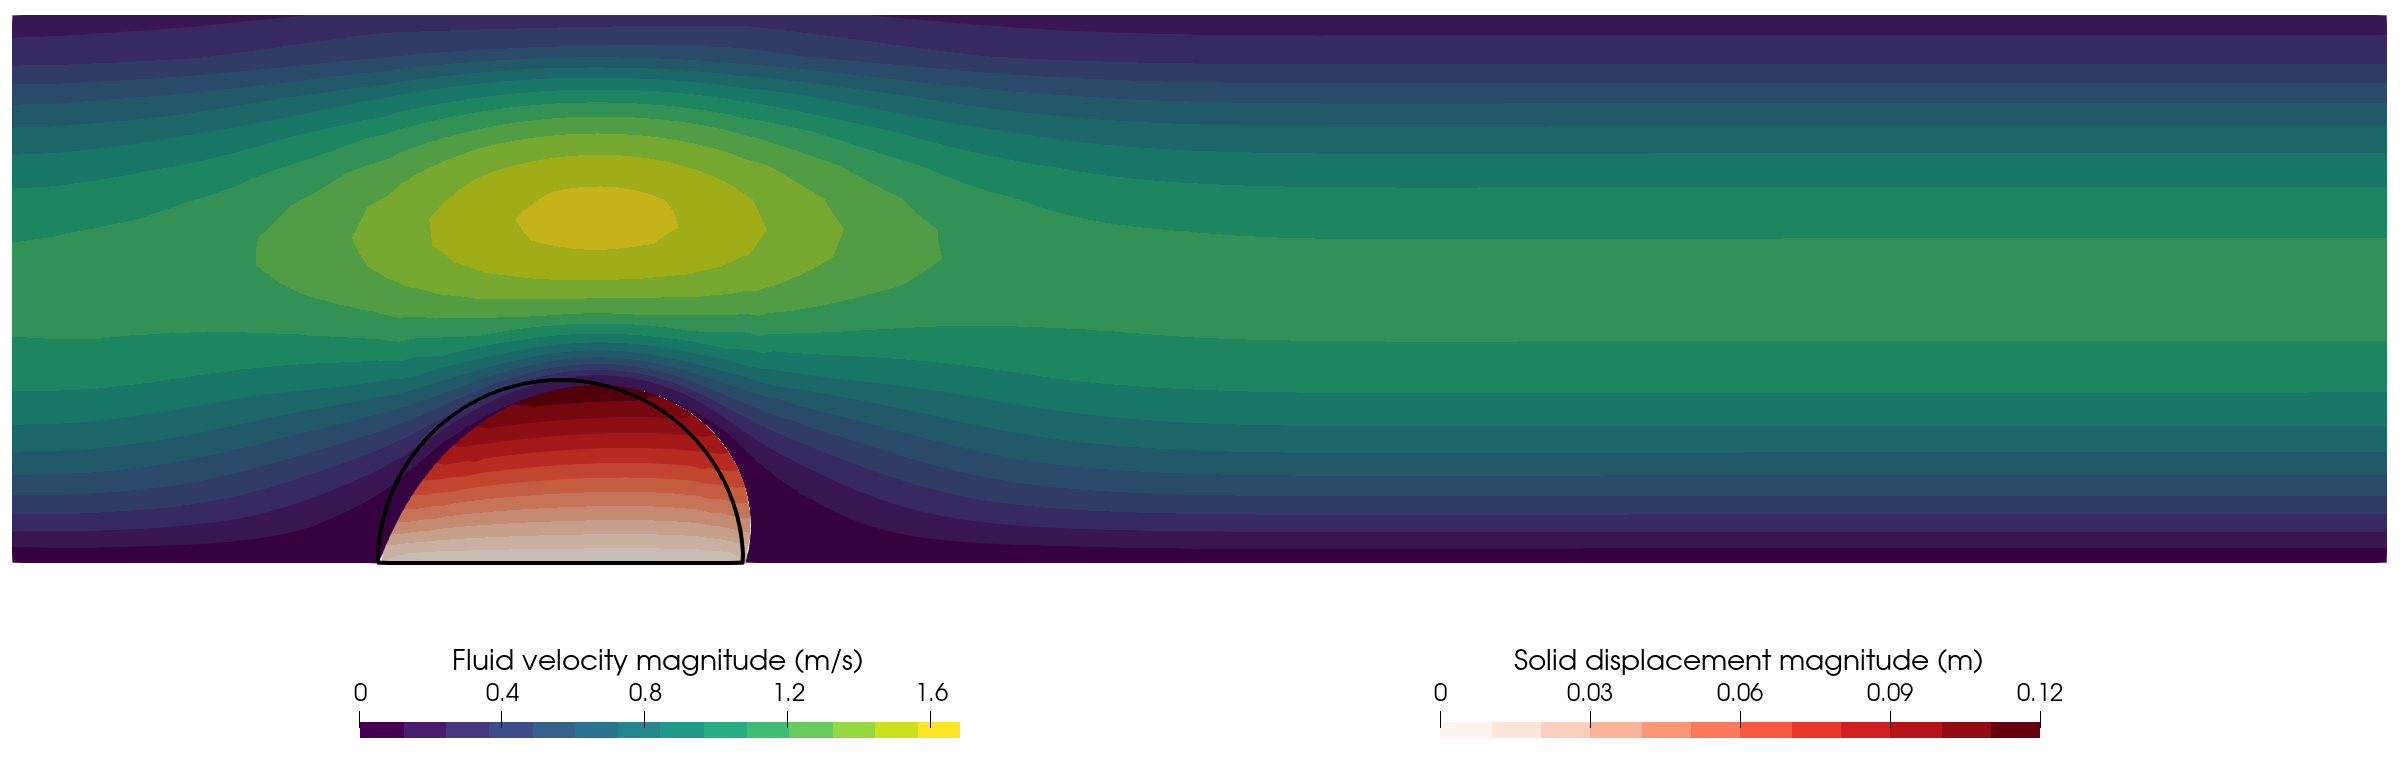
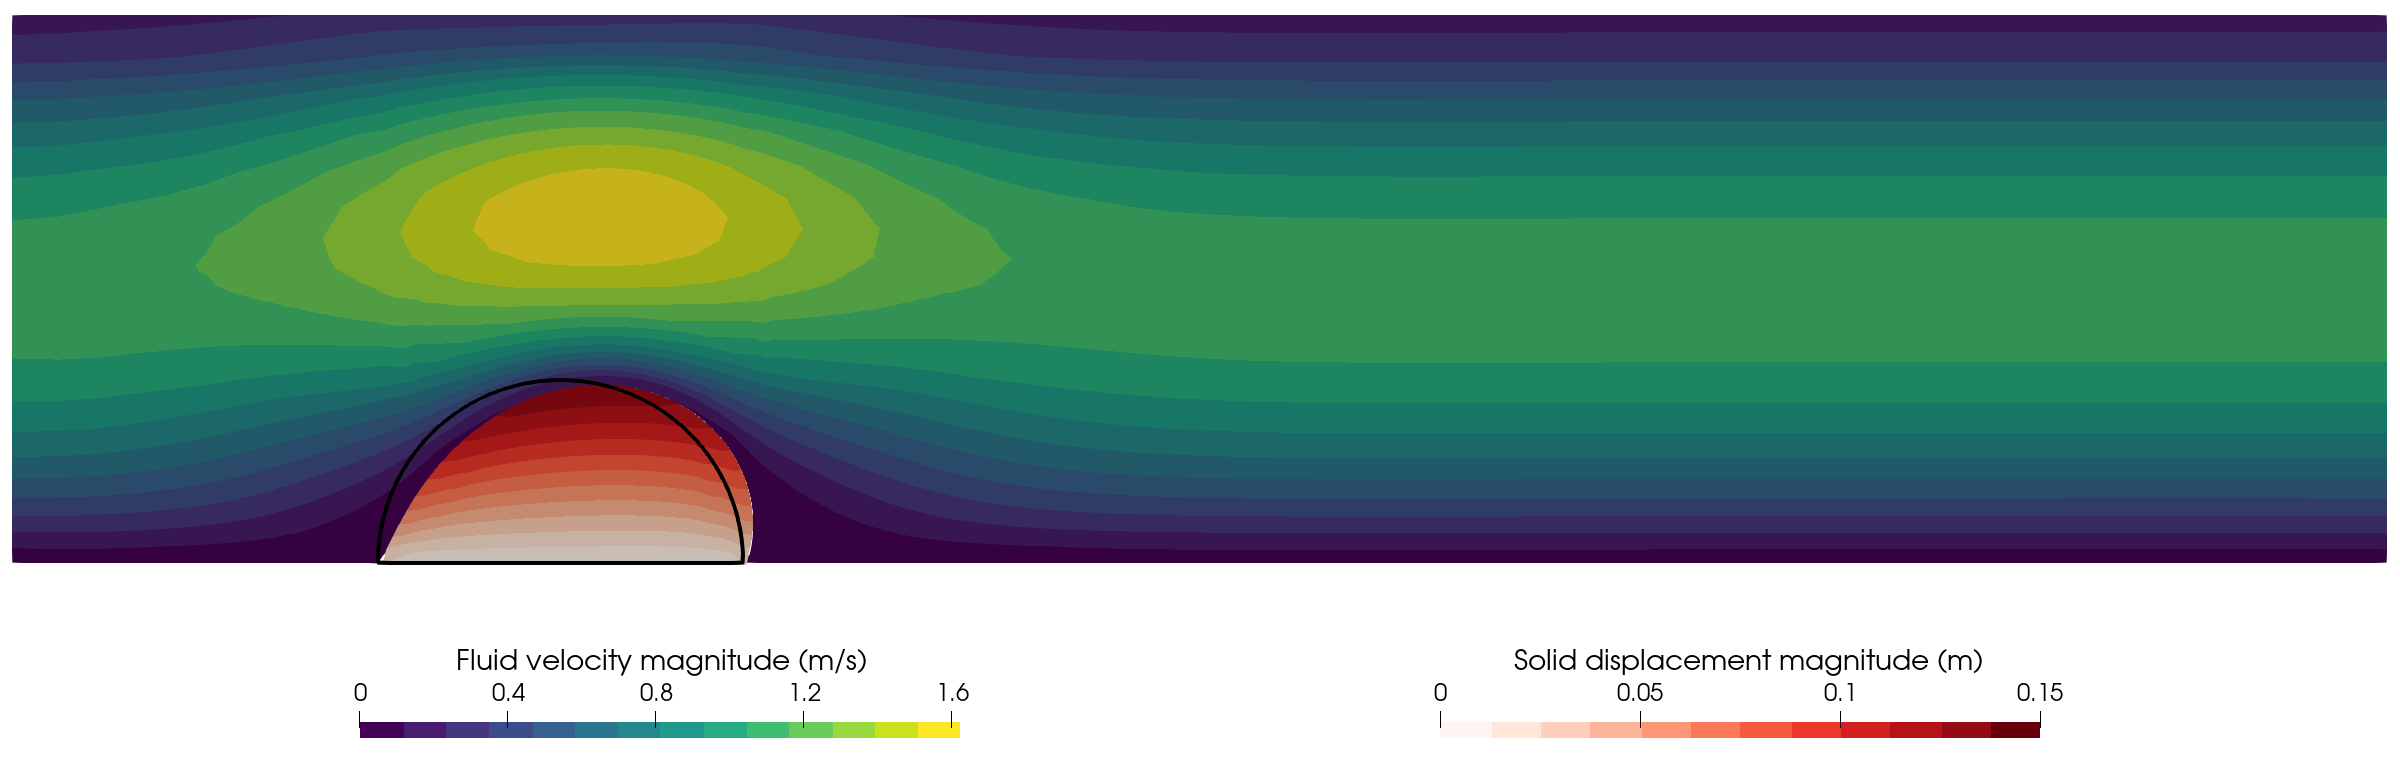
Half-cylinder field figure from the finite-strain run
The image still showed the earlier small-strain solid (top point about
0.12 m). Regenerated with figures/scripts/paraview/blob_field.py from the
finite-strain factor-2 QM run at t = 3 s (max |D| 0.136 m, max |U| 1.61 m/s);
colour ranges updated to 0-0.15 m and 0-1.62 m/s. Author note removed.

diff --git a/figures/scripts/paraview/blob_field.py b/figures/scripts/paraview/blob_field.py
@@ -1,6 +1,8 @@
 # pvbatch blob_field.py <case> <out.png>: blobInTreacle at steady state (t = 3 s),
 # fluid velocity magnitude on the deformed mesh, solid coloured by |D| on the
-# displaced configuration.
+# displaced configuration. Finite-strain factor-2 run (MeluXina
+# philip-blobnh2/qm-mesh/verification/work/mesh_x2, foamToVTK -region fluid|solid
+# -time 3): max |U| 1.61 m/s, max |D| 0.136 m.
 import sys
 from paraview.simple import *
 case, out = sys.argv[1], sys.argv[2]
@@ -20,13 +22,13 @@ d1 = Show(fli, v); ColorBy(d1, ("POINTS", "U", "Magnitude"))
 lut = GetColorTransferFunction("U"); lut.ApplyPreset("Viridis", True); lut.Discretize = 1; lut.NumberOfTableValues = 14
 d3 = Show(und, v); d3.AmbientColor = d3.DiffuseColor = [0, 0, 0]; d3.LineWidth = 4; d3.ColorArrayName = ["POINTS", ""]
 d2 = Show(warp, v); d2.Representation = "Surface"; ColorBy(d2, ("POINTS", "D", "Magnitude"))
-lut2 = GetColorTransferFunction("D"); lut2.ApplyPreset("Reds", True); lut2.Discretize = 1; lut2.NumberOfTableValues = 12; lut2.InvertTransferFunction(); lut2.RescaleTransferFunction(0.0, 0.12); lut.RescaleTransferFunction(0.0, 1.68)
+lut2 = GetColorTransferFunction("D"); lut2.ApplyPreset("Reds", True); lut2.Discretize = 1; lut2.NumberOfTableValues = 12; lut2.InvertTransferFunction(); lut2.RescaleTransferFunction(0.0, 0.15); lut.RescaleTransferFunction(0.0, 1.62)
 for l, t in ((lut, "Fluid velocity magnitude (m/s)"), (lut2, "Solid displacement magnitude (m)")):
     sb = GetScalarBar(l, v); sb.Title = t; sb.ComponentTitle = ""; sb.Visibility = 1
     sb.TitleColor = sb.LabelColor = [0, 0, 0]; sb.TitleFontSize = 28; sb.LabelFontSize = 24
     sb.Orientation = "Horizontal"; sb.AddRangeLabels = 0; sb.WindowLocation = "Any Location"; sb.ScalarBarLength = 0.25
 GetScalarBar(lut, v).Position = [0.15, 0.03]; GetScalarBar(lut2, v).Position = [0.6, 0.03]
-for l, labs in ((lut, [0, 0.4, 0.8, 1.2, 1.6]), (lut2, [0, 0.03, 0.06, 0.09, 0.12])):
+for l, labs in ((lut, [0, 0.4, 0.8, 1.2, 1.6]), (lut2, [0, 0.05, 0.10, 0.15])):
     sb = GetScalarBar(l, v); sb.UseCustomLabels = 1; sb.CustomLabels = labs; sb.LabelFormat = "%-#.2g"; sb.RangeLabelFormat = "%-#.2g"
 v.CameraParallelProjection = 1
 ResetCamera(v); v.CameraPosition = [3.25, 0.0, 10]; v.CameraFocalPoint = [3.25, 0.0, 0]; v.CameraViewUp = [0, 1, 0]

diff --git a/sectionAccuracyCost.tex b/sectionAccuracyCost.tex
@@ -177,7 +177,8 @@ At the smallest step the couplings differ by $0.09\%$ in $u_x$(A), close to thei
 	\caption{Elastic half-cylinder at steady state ($t = 3\,\mathrm{s}$), quasi-monolithic coupling, factor-2 mesh: fluid velocity magnitude and the displaced half-cylinder coloured by displacement magnitude (no magnification), with its undeformed outline (black).}
 	\label{fig:blob_field}
 \end{figure}
-\todo{Agent B (10 Nov 2026): this image is from the earlier small-strain solid (top point about 0.12 m); regenerate it from the finite-strain factor-2 run (MeluXina philip-blobnh2/qm-mesh, t = 3 s) with figures/scripts/paraview.}
+% Field image: finite-strain factor-2 run (philip-blobnh2/qm-mesh mesh_x2, t = 3 s),
+% figures/scripts/paraview/blob_field.py (13 Nov 2026).
 
 \paragraph{Mesh convergence.}
 At steady state (Figure~\ref{fig:blob_field}) the flow accelerates over the half-cylinder, which leans downstream by about $0.14\,\mathrm{m}$ at its top.
